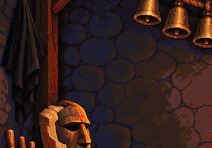
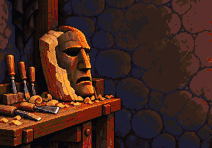
Stop 1 from the workshop picture's mask and bench, lamp glow moved Co-Authored-By: Claude Opus 5.5 (1M context) <noreply@anthropic.com> Claude-Session: https://claude.ai/code/session_01ALpVXvKveMWFoihDKhhjFB

diff --git a/tools/art/chatgpt/scenes.py b/tools/art/chatgpt/scenes.py
@@ -60,7 +60,7 @@ WORLD = (320, 184)
 # world's proportions (never stretched), its top row in the picture's px; and the card's place in it
 # (the card shows the scene's subject, not the floor).
 PORTRAIT = {
-    1: ("workshop_tall.png", 280, (0, 6)),            # the carver's bench, masks on the wall, the bells
+    1: ("workshop_tall.png", 500, (0, 6)),            # the carver's bench: the mask, the chisels, the shavings (the bells hang above the band)
     3: ("village_well_night.png", 724, (74, 26)),     # Around the Bonfires: the night lane, the well
     4: ("village_banners_dusk.png", 640, (54, 18)),   # Carnival Sunday: red cloths across the street
     5: ("village_tree_dusk.png", 655, (54, 18)),      # The Rope: the lane at dusk, the bare tree
@@ -71,7 +71,7 @@ PORTRAIT = {
 WIDE = {2: ("village_street.png", (100, 30))}         # Sant'Antonio's Fires: the stone fire ring
 # the stops' fires and glows on the new pictures (the drawn worlds' ones fell on blank walls)
 FIRES = {2: [[255, 152, "big"]]}
-GLOWS = {1: [[245, 54, 36, 28]], 2: [[255, 120, 96, 72]]}
+GLOWS = {1: [[293, 14, 36, 28]], 2: [[255, 120, 96, 72]]}
 SMOKE = {2: [[255, 76]]}
 
 
